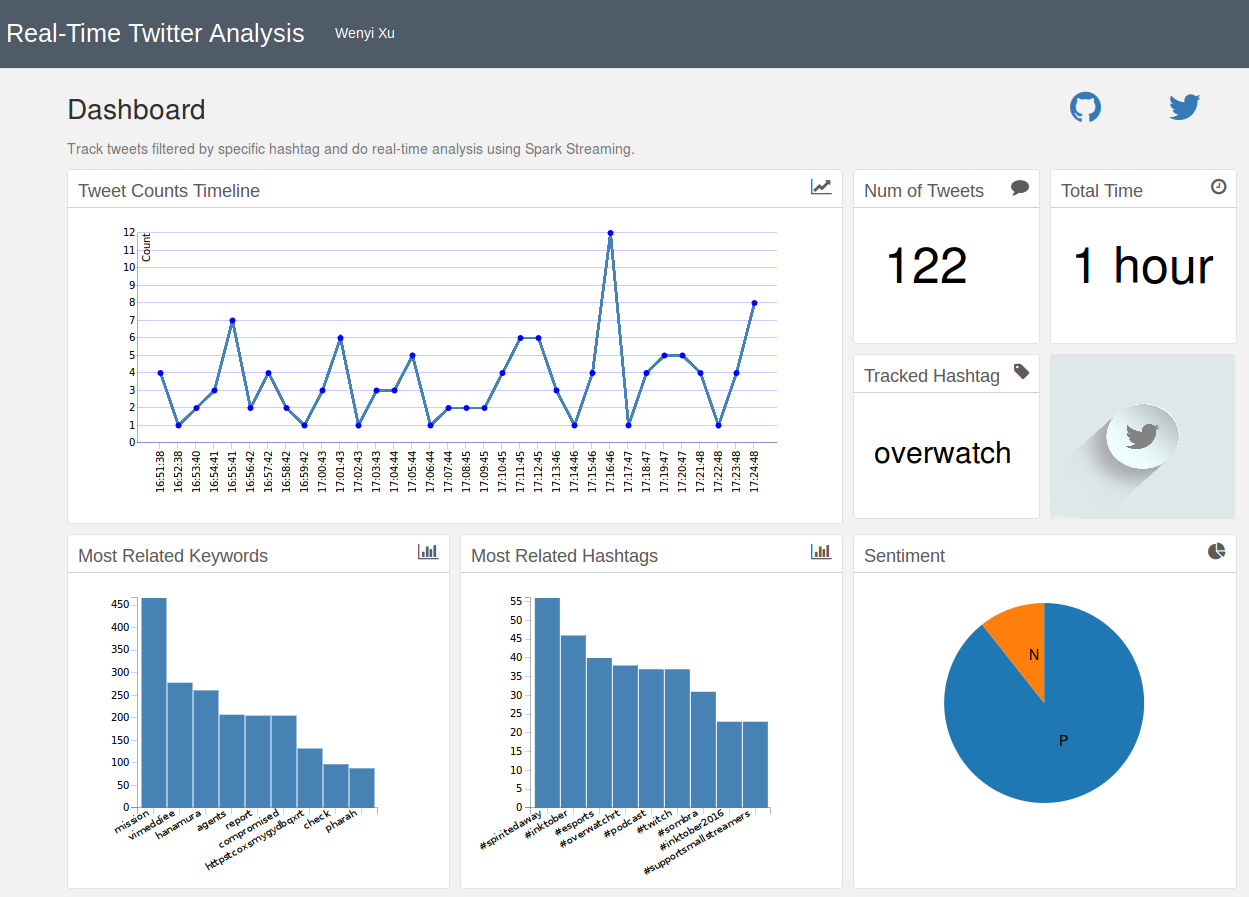
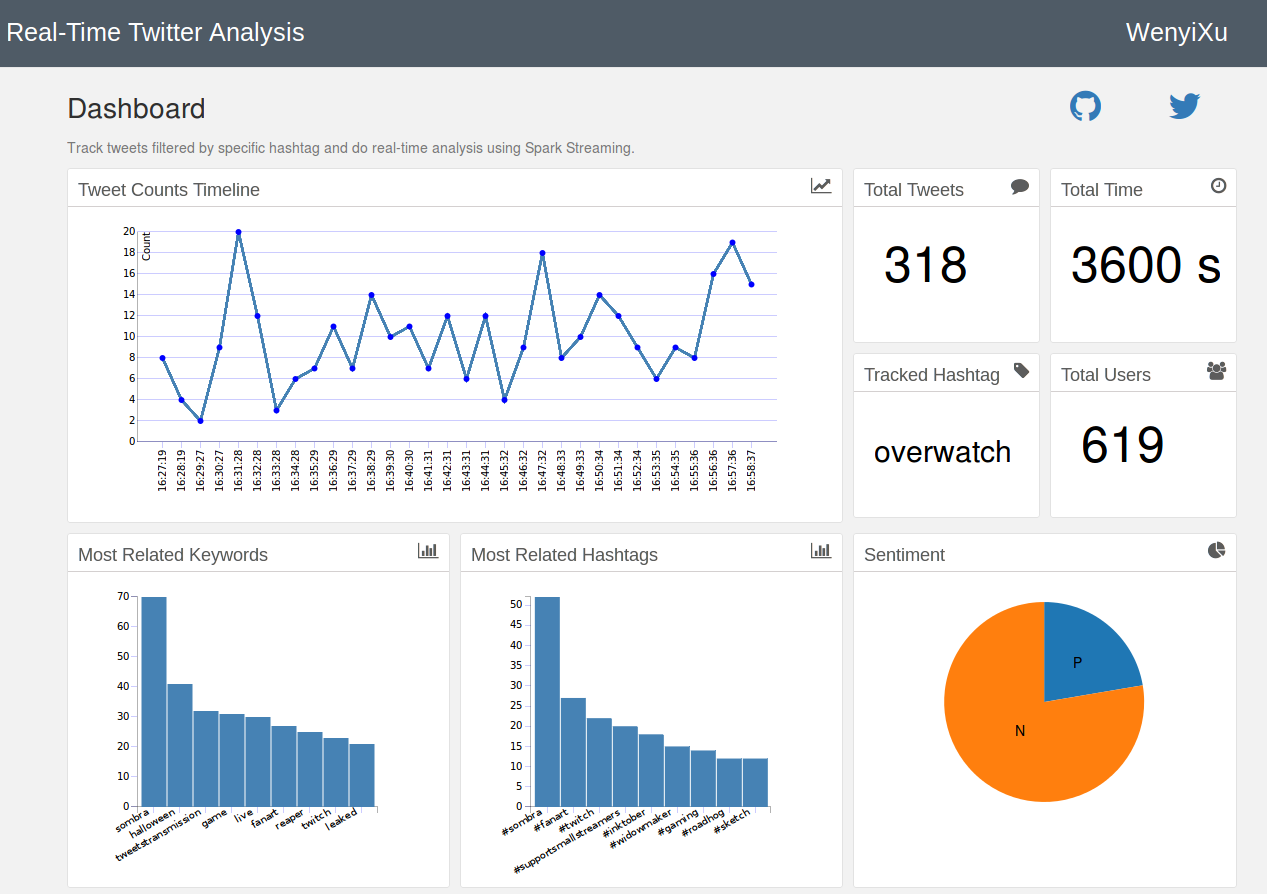
Some updates.

diff --git a/web/templates/dashboard.html b/web/templates/dashboard.html
@@ -15,9 +15,11 @@
 	<div class="navbar navbar-default navbar-static-top" role="navigation">
 		<div class="container-fluid">
  	  	<div class="navbar-header">
-        <a class="navbar-brand" href="./">Real-Time Twitter Analysis</a>
-				<p class="navbar-text">Wenyi Xu</p>	
+        <a class="navbar-brand" href="./">Real-Time Twitter Analysis</a>	
       </div> 
+			<ul class="nav navbar-nav navbar-right">
+				WenyiXu
+			<ul/>
 		</div>
 	</div>
 
@@ -66,7 +68,7 @@
 			<div class="col-sm-2">
 				<div class="chart_wrapper">
 					<div class="chart_title">
-						Num of Tweets
+						Total Tweets
 						<i class="fa fa-comment pull-right" aria-hidden="true" style="font-size:18px"></i>
 					</div>
 					<div class="chart_stage" id="total">
@@ -100,7 +102,15 @@
 			</div>
 
 		<div class="col-sm-2">
-			<img src="static/img/icon.png" height="165" width="185">
+			<div class="chart_wrapper">
+				<div class="chart_title">
+					Total Users
+					<i class="fa fa-users pull-right" aria-hidden="true" style="font-size:18px"></i>
+				</div>
+				<div class="text_stage" id="user">
+					<script src="static/js/user.js"></script>
+				</div>
+			</div>	
 		</div>
 
 		</div>

diff --git a/web/static/js/time.js b/web/static/js/time.js
@@ -1,29 +1,24 @@
-//////////////////////////////////////////////////////////////////
-//
-// 
-//
+
+
+
 var time = d3.select("#time").append("svg")
     .attr("height", 120)
     .append("g")
     .attr("transform",
           "translate(" + 10 + "," + 70 + ")");
 
-time.append("text")
-    .text("1 hour")
-    .style("font-size","50px");	
-
-//var t = 0
+var time_t = 0
 // load the data
-//d3.json("/data/counts", function(error, data) {
-//    data.forEach(function(d) {
-//	t += d.Count;
-//    });  
+d3.json("/data/time", function(error, data) {
+    data.forEach(function(d) {
+	time_t += d.Time;
+    });  
 
-//   total.append("text")
-//        .text(t)
-//        .style("font-size","50px");
+   time.append("text")
+        .text(time_t+' s')
+        .style("font-size","50px");
 
-//});
+});
 
 
 

diff --git a/web/static/js/user.js b/web/static/js/user.js
@@ -1,0 +1,29 @@
+//////////////////////////////////////////////////////////////////
+//
+// 
+//
+var user = d3.select("#user").append("svg")
+    .attr("height", 120)
+    .append("g")
+    .attr("transform",
+          "translate(" + 20 + "," + 70 + ")");
+
+var t = 0
+// load the data
+d3.json("/data/users", function(error, data) {
+    data.forEach(function(d) {
+	t += d.Users;
+    });  
+
+   user.append("text")
+        .text(t)
+        .style("font-size","50px");
+
+});
+
+
+
+
+
+
+

diff --git a/web/static/css/dashboard.css b/web/static/css/dashboard.css
@@ -54,10 +54,12 @@ body.application p.sub-summary {
 	font-family: Arial;
 }
 
-.navbar p.navbar-text {
+.navbar ul.navbar-nav {
   color: white;
+	padding-right: 5%;
+	padding-top: 7px;
   text-decoration: none;
-  font-size: 100%;
+  font-size: 180%;
 	font-family: Arial;
 }
 

diff --git a/src/analysis.py b/src/analysis.py
@@ -19,9 +19,17 @@ from pymongo import MongoClient
 
 
 def tweet_count(lines):
-	tweet_cnt = lines.map(lambda line: 1) \
+	tweet_cnt = lines.flatMap(lambda line: line.split('---')) \
+					.map(lambda line: 1) \
                     .reduce(lambda x,y: x+y)
 	tweet_cnt.foreachRDD(lambda x: tweet_cnt_li.extend(x.collect()))
+
+def user_count(lines):
+	user_cnt = lines.flatMap(lambda line: line.split('---')) \
+				 .map(lambda line: line[:line.find('+++')]) 
+
+	#user_cnt.pprint()	
+	user_cnt.foreachRDD(lambda x: user_cnt_li.extend(x.distinct().collect()))	
 
 
 def related_keywords(lines):
@@ -48,6 +56,7 @@ def related_keywords(lines):
                 .map(lambda line: line.replace('-', '')) \
                 .map(lambda line: line.replace('\\', '')) \
                 .map(lambda line: line.replace('/', '')) \
+				.map(lambda line: line.replace('+', '')) \
                 .flatMap(lambda line: line.split()) \
                 .map(lambda word: word.lower()) \
                 .map(lambda word: word if word not in stop_words else 'none') \
@@ -85,8 +94,11 @@ def sentiment_analysis(lines, model, hashingTF, iDF):
 	analysis.foreachRDD(lambda x: pos_cnt_li.extend(x.collect()))	
 
 
-def data_to_db(db, start_time, counts, keywords, hashtags, pos, tracking_word, related_keywords_tb):
-	# Store counts
+def data_to_db(db, start_time, counts, user_cnt_len_li, keywords, hashtags, pos, tracking_word, related_keywords_tb):
+	# 1) Store counts
+	# Complement the counts list
+	#if len(counts) < len(start_time):
+	#	counts.extend([0]*(len(start_time)-len(counts)))
 	counts_t = []
 	for i in range(min(len(counts), len(start_time))):
 		print(str(start_time[i]))
@@ -98,25 +110,37 @@ def data_to_db(db, start_time, counts, keywords, hashtags, pos, tracking_word, r
 	#print(counts_t)	
 	collection = db['counts']
 	db['counts'].insert(counts_js)
-	# Store keywords
+	# 2) Store users
+	users_df = pd.DataFrame([user_cnt_len_li], columns=['Users'])
+	users_js = json.loads(users_df.reset_index().to_json(orient='records'))
+	collection = db['users']
+	db['users'].insert(users_js)
+	# 3) Store time
+	time_df = pd.DataFrame([total_time], columns=['Time'])
+	time_js = json.loads(time_df.reset_index().to_json(orient='records'))
+	collection = db['time']
+	db['time'].insert(time_js)
+	# 4) Store keywords
 	collection = db['keywords']
 	if related_keywords_tb:
 		db['keywords'].insert(keywords)
-	# Store hashtags
+	# 5) Store hashtags
 	collection = db['hashtags']
 	db['hashtags'].insert(hashtags)
-	# Store ratio
+	# 6) Store ratio
 	whole = sum(counts[:len(pos)])
 	pos_whole = sum(pos)
-	#print(whole)
-	#print(pos)
-	pos = 1.0*pos_whole/whole	
+	# Prevent divide 0:
+	if whole:
+		pos = 1.0*pos_whole/whole	
+	else:
+		pos = 1
 	neg = 1-pos
 	ratio_df = pd.DataFrame([(pos, 'P'), (neg, 'N')], columns=['Ratio', 'PN'])
 	ratio_js = json.loads(ratio_df.reset_index().to_json(orient='records'))
 	collection = db['ratio']
 	db['ratio'].insert(ratio_js)
-	# Store tracking_word
+	# 7) Store tracking_word
 	tracking_word_df = pd.DataFrame([tracking_word], columns=['Tracking_word'])
 	tracking_word_js = json.loads(tracking_word_df.reset_index().to_json(orient='records'))
 	collection = db['tracking_word']
@@ -218,15 +242,18 @@ def main(sc, db, tracking_word):
 	related_hashtags_df = sqlContext.createDataFrame(tmp, ['Hashtag', 'Count'])
 
 	# 1) Count the number of tweets
-	tweet_count(lines)
+	tweet_count(lines)	
 
-	# 2) Find the related keywords
+	# 2) Count the number of users
+	user_count(lines)
+
+	# 3) Find the related keywords
 	related_keywords(lines)
 
-	# 3) Find the related hashtags
+	# 4) Find the related hashtags
 	related_hashtags(lines)
 
-	# 4) Sentiment analysis
+	# 5) Sentiment analysis
 	sentiment_analysis(lines, model, hashingTF, iDF)
 	
 	###########################################################################
@@ -237,9 +264,7 @@ def main(sc, db, tracking_word):
 	start_time = [datetime.datetime.now()]
 
 	while process_cnt < process_times:
-		time.sleep(window_time)		
-		#print('Count:')
-		#print(tweet_cnt_li)		
+		time.sleep(window_time)			
 		start_time.append(datetime.datetime.now())	
 		# Find the top related keywords
 		if len(sqlContext.tables().filter("tableName LIKE 'related_keywords_tmp'").collect()) == 1:
@@ -277,9 +302,16 @@ def main(sc, db, tracking_word):
 	ssc.stop()
 	###########################################################################
 
+	print(">>>tweet_cnt_li:")
 	print(tweet_cnt_li)
+	print(">>>user_cnt_li:")
+	user_cnt_len_li = len(user_cnt_li)
+	print(user_cnt_len_li)
+	print(">>>start_time:")
 	print(start_time)
+	print(">>>pos_cnt_li")
 	print(pos_cnt_li)
+	print(">>>related_keywords_tb")
 	print(related_keywords_tb)
 	#print(related_keywords_pd.head(10))
 	#print(related_hashtags_pd.head(10))
@@ -292,7 +324,7 @@ def main(sc, db, tracking_word):
 	#print(related_hashtags_js)
 
 	# Store the data to MongoDB
-	data_to_db(db, start_time, tweet_cnt_li, related_keywords_js, related_hashtags_js, pos_cnt_li, tracking_word, related_keywords_tb)
+	data_to_db(db, start_time, tweet_cnt_li, user_cnt_len_li, related_keywords_js, related_hashtags_js, pos_cnt_li, tracking_word, related_keywords_tb)
 
 	print('>'*30+'SPARK STOP'+'>'*30)
 
@@ -309,6 +341,7 @@ if __name__=="__main__":
 	sqlContext = SQLContext(sc)
 	# Initialize the tweet_cnt_li
 	tweet_cnt_li = []
+	user_cnt_li = []
 	pos_cnt_li = []
 	# Load parameters
 	with open('conf/parameters.json') as f:
@@ -317,11 +350,15 @@ if __name__=="__main__":
 		batch_interval = int(p['DStream']['batch_interval'])
 		window_time = int(p['DStream']['window_time'])
 		process_times = int(p['DStream']['process_times'])
+	# Compute the whole time for displaying
+	total_time = batch_interval * process_times
 	# Connect to the running mongod instance
 	conn = MongoClient()
 	# Switch to the database
 	db = conn['twitter']
 	db['counts'].drop()
+	db['users'].drop()
+	db['time'].drop()
 	db['keywords'].drop()
 	db['hashtags'].drop()
 	db['ratio'].drop()

diff --git a/web/dashboard.py b/web/dashboard.py
@@ -14,12 +14,15 @@ COLLECTION_NAME1 = 'hashtags'
 COLLECTION_NAME2 = 'counts'
 COLLECTION_NAME3 = 'ratio'
 COLLECTION_NAME4 = 'tracking_word'
+COLLECTION_NAME5 = 'users'
+COLLECTION_NAME6 = 'time'
 FIELDS0 = {'Keyword': True, 'Count': True, '_id': False}
 FIELDS1 = {'Hashtag': True, 'Count': True, '_id': False}
 FIELDS2 = {'_id': False}
 FIELDS3 = {'_id': False}
 FIELDS4 = {'_id': False}
-
+FIELDS5 = {'_id': False}
+FIELDS6 = {'_id': False}
 
 app = Flask(__name__)
 
@@ -82,6 +85,30 @@ def tracking_word():
         connection = MongoClient(MONGODB_HOST, MONGODB_PORT)
         collection = connection[DBS_NAME][COLLECTION_NAME4]
         projects = collection.find(projection=FIELDS4)
+        json_projects = []
+        for project in projects:
+                json_projects.append(project)
+        json_projects = json.dumps(json_projects, default=json_util.default)
+        connection.close()
+        return json_projects
+
+@app.route("/data/users")
+def users():
+        connection = MongoClient(MONGODB_HOST, MONGODB_PORT)
+        collection = connection[DBS_NAME][COLLECTION_NAME5]
+        projects = collection.find(projection=FIELDS5)
+        json_projects = []
+        for project in projects:
+                json_projects.append(project)
+        json_projects = json.dumps(json_projects, default=json_util.default)
+        connection.close()
+        return json_projects
+
+@app.route("/data/time")
+def time():
+        connection = MongoClient(MONGODB_HOST, MONGODB_PORT)
+        collection = connection[DBS_NAME][COLLECTION_NAME6]
+        projects = collection.find(projection=FIELDS6)
         json_projects = []
         for project in projects:
                 json_projects.append(project)

diff --git a/src/listener.py b/src/listener.py
@@ -18,14 +18,16 @@ class listener(StreamListener):
 		# Increment the counter
 		#self.counter += 1
 		try:
+			username = tweetdict['user']['name'].encode('utf-8')
 			text = tweetdict['text'].encode('utf-8')
+			msg = '---'.encode('utf-8') + username + '+++'.encode('utf-8') + text
 			#username = tweetdict['user']['screen_name']
 			#hashdict = tweetdict['entities']['hashtags']
 			#urldict = tweetdict['entities']['urls']
 			#userdict = tweetdict['entities']['user_mentions']
 			#tweet = [text, username, hashdict, urldict, userdict]
-			print(text)
-			self.client_socket.send(text)
+			print(msg)
+			self.client_socket.send(msg)
 		except KeyError:
 			print('Error.')
 

diff --git a/README.md b/README.md
@@ -11,11 +11,13 @@ Track specific hashtags or keywords in Twitter, do real-time analysis on the twe
 Modify the conf/parameters.json file to set the parameters.
 ```json
 { "hashtag": "#overwatch",
-  "DStream": { "batch_interval": "10",
-               "window_time": "10",
+  "DStream": { "batch_interval": "60",
+               "window_time": "60",
                "process_times": "60" }
 }
 ```
+**Suggestion**: Set batch_interval and window_time the multiple of 60.
+
 ### MongoDB Database
 Start a mongod process
 ```
